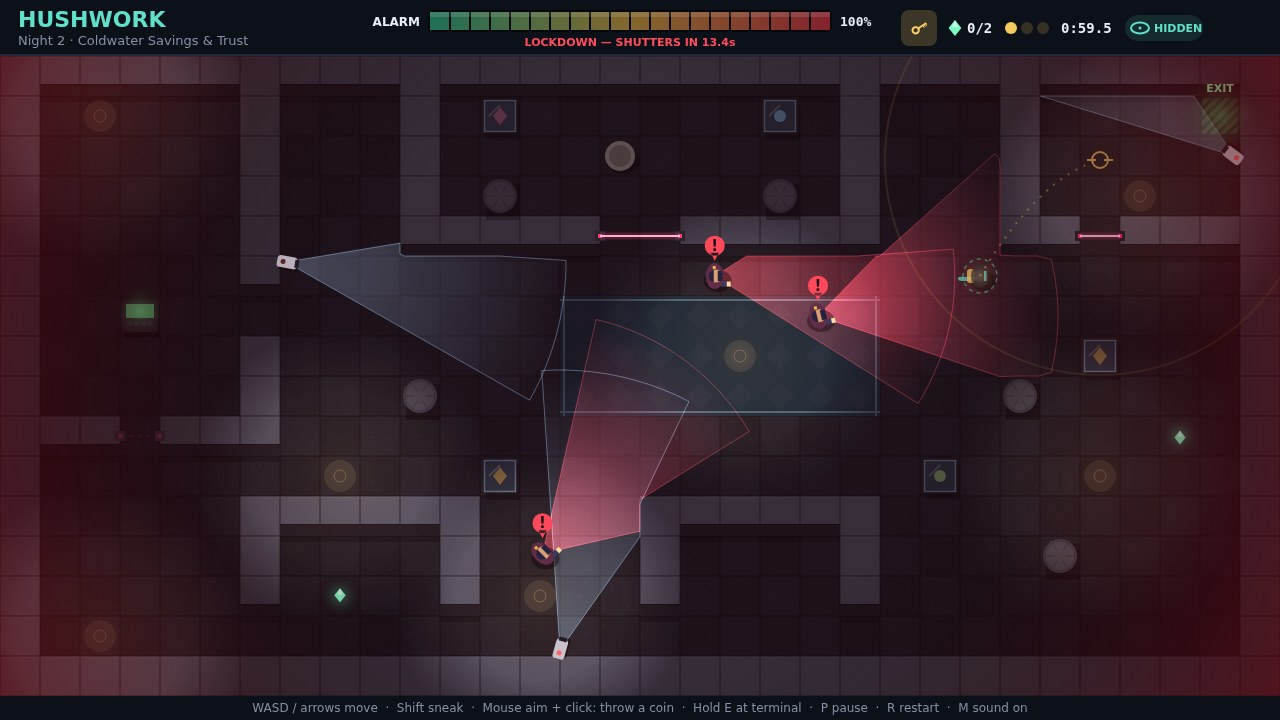
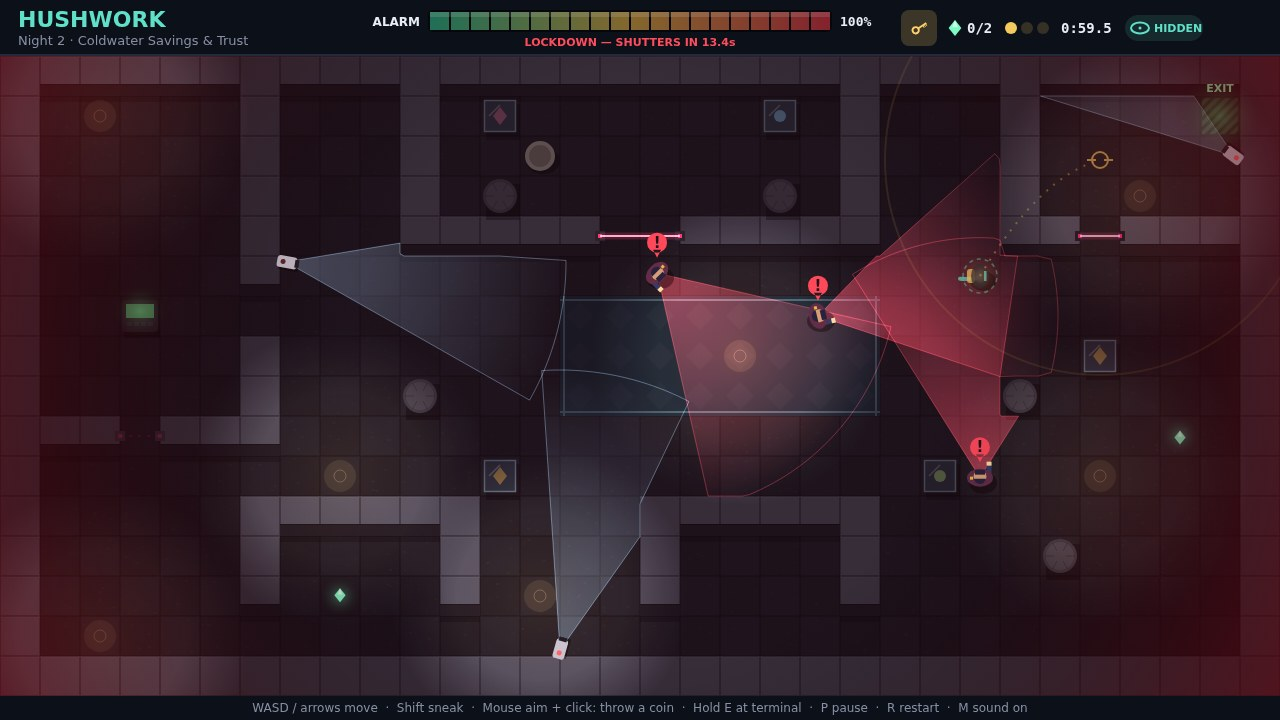
Balance later heists and verify all three nights through real input

Changed region(s): [[0.4062, 0.3056, 0.8125, 0.7944], [0.4688, 0.1833, 0.5, 0.2444], [0.4062, 0.1833, 0.4375, 0.2444]]

diff --git a/game/src/levels.js b/game/src/levels.js
@@ -54,7 +54,7 @@
       map: [
         '################################',
         '#.L...#...#.g......g.#...#....X#',
-        '#.....#...#....$.....#...#.....#',
+        '#.....#...#..$.......#...#.....#',
         '#.....#...#.c......c.#...#..L..#',
         '#.....#...#####..#####...##.####',
         '#.....#........................#',
@@ -71,8 +71,8 @@
       ],
       guards: [
         { route: [[8, 6, 1.0, 180], [23, 6, 1.2, 0], [23, 9, 1.0, 90], [8, 9, 1.2, 180]] },
-        { route: [[4, 14, 2.0, 180], [29, 14, 2.0, 0]] },
-        { route: [[12, 2, 2.4, 270], [19, 2, 2.4, 270]] },
+        { route: [[29, 14, 2.0, 0], [4, 14, 2.0, 180]] },
+        { route: [[12, 2, 3.5, 270], [19, 2, 3.5, 270]] },
       ],
       cameras: [
         { x: 7.15, y: 5.15, angle: 40, sweep: 30, speed: 0.6, phase: 0.5 },
@@ -102,16 +102,16 @@
         '#...........~~~$~~~~...........#',
         '#....c.....#~g~~~~g~#.....c....#',
         '#..........##########..........#',
-        '#.......#....L.........#.......#',
+        '#.......#....L.........#...T...#',
         '#.......#.....g..g.....#.......#',
-        '#..T...........................#',
+        '#..............................#',
         '#.......#..~~~~~~~~~~..#.......#',
         '#..*....#..~~~~~~~~~~..#....P..#',
         '################################',
       ],
       guards: [
         { route: [[10, 4, 1.0, 90], [21, 4, 1.0, 90], [21, 10, 1.0, 270], [10, 10, 1.0, 270]] },
-        { route: [[2, 2, 2.0, 0], [6, 4, 1.5, 90], [4, 7, 1.5, 0]] },
+        { route: [[2, 5, 2.0, 0], [6, 7, 1.5, 90], [4, 10, 1.5, 0]] },
         { route: [[25, 2, 1.6, 180], [29, 4, 1.6, 90]] },
         { route: [[10, 12, 1.6, 180], [22, 12, 1.6, 0]] },
       ],
